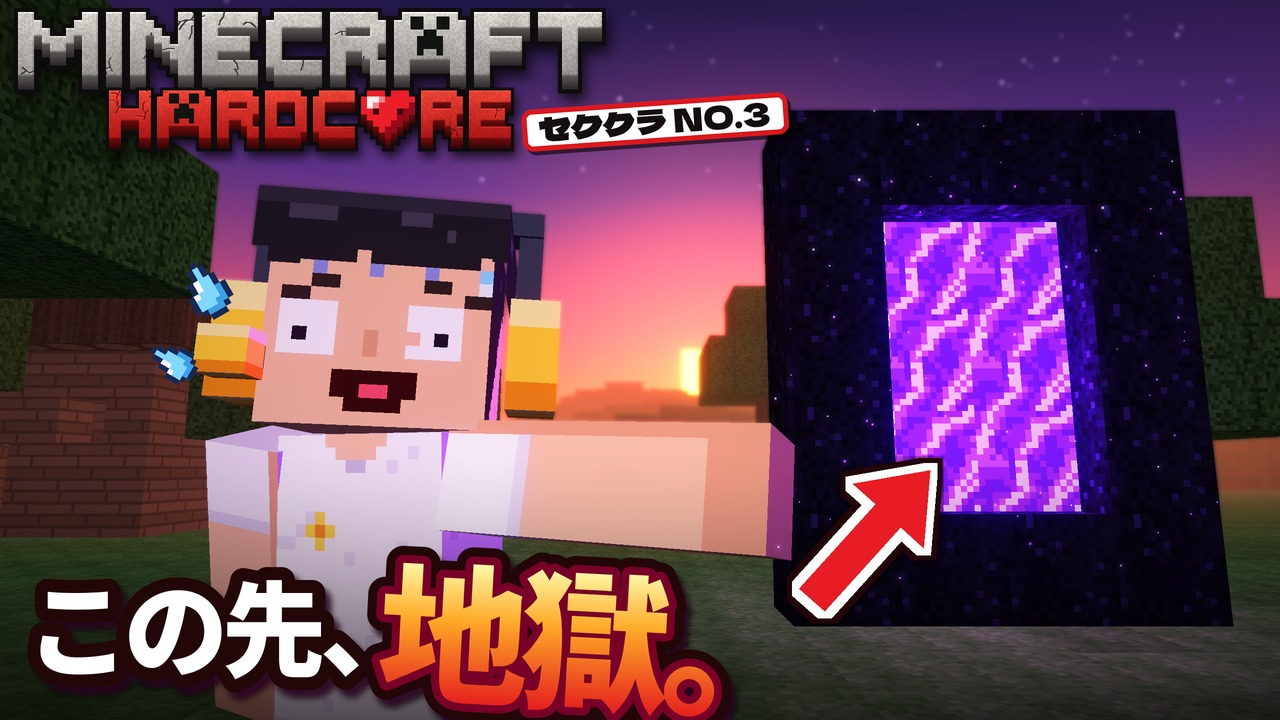
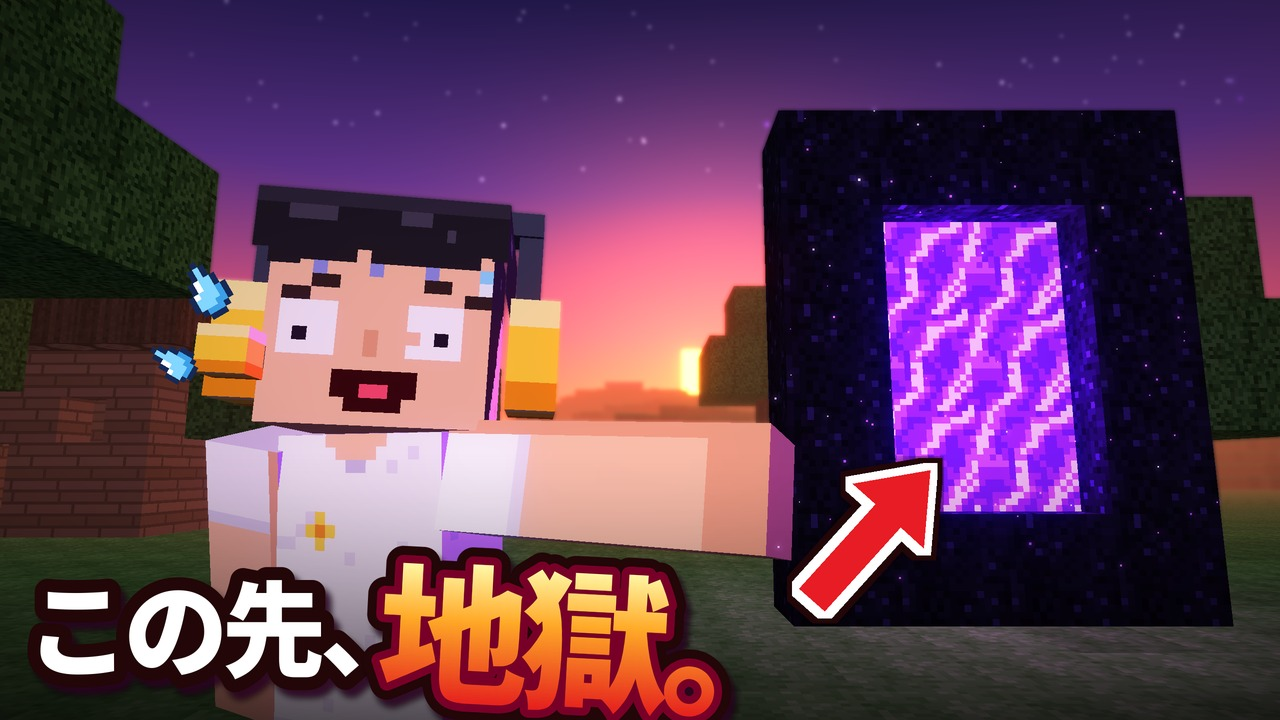
NO.3 のサムネから左上の英字タイトルと「セククラ NO.3」を外す
- 文字は「この先、地獄。」だけにして、顔とネザーゲートを目立たせる
- 英字ロゴの部品（logo_title）は、また使えるように lib/overlay.py に残す

Claude-Session: https://claude.ai/code/session_01ARLGywnTjgvutUHsht7TWK

Changed region(s): [[0.0, 0.0, 0.625, 0.2444]]

diff --git a/sekunuyu-thumbnail/episodes/ep03_portal.py b/sekunuyu-thumbnail/episodes/ep03_portal.py
@@ -187,16 +187,13 @@ def portal_particles(img, cam: Camera, ss: int, seed=11):
 # ---------------------------------------------------------------- 文字入れ
 
 TEXT = {
-    "title1": "MINECRAFT",
-    "title2": "HARDCORE",
-    "badge": "セククラ NO.3",
     "hook1": "この先、",
     "hook2": "地獄。",
 }
 
 
 def compose(art: Image.Image, S: int) -> Image.Image:
-    """クリックされやすさ重視：左上に英字タイトル、フック（この先、地獄。）を大きく。"""
+    """クリックされやすさ重視：文字はフック（この先、地獄。）だけにして大きく。"""
     c = art.convert("RGBA")
     dark = ov.DARK
     # 下の方を少し暗くして、大きい文字を読みやすく
@@ -205,15 +202,6 @@ def compose(art: Image.Image, S: int) -> Image.Image:
     band = np.zeros((h, c.width, 4), np.uint8)
     band[..., 3] = grad.astype(np.uint8)[:, None]
     c.alpha_composite(Image.fromarray(band, "RGBA"))
-    # 左上：ひびの入った石の英字タイトル（A にクリーパーの顔、HARDCORE の O はハート）＋シリーズ名と番号
-    w1, _ = ov.logo_size(TEXT["title1"], 8 * S)
-    w2, _ = ov.logo_size(TEXT["title2"], 6 * S, heart_for="O")
-    b1 = ov.logo_title(c, (14 * S, 8 * S), TEXT["title1"], 8 * S, seed=2)
-    b2 = ov.logo_title(c, (b1[0] + (w1 - w2) // 2, b1[3] - 6 * S), TEXT["title2"], 6 * S,
-                       front=((246, 70, 56), (178, 22, 22)), side=(112, 12, 14), crack=(98, 12, 12),
-                       heart_for="O", seed=5)
-    ov.badge(c, (b2[2] + 6 * S, b2[1] + 3 * S), TEXT["badge"], ov.font(fonts.DELA, 32 * S), pad=(12 * S, 3 * S),
-             border=5 * S, radius=10 * S, rotate=4)
     # フック（大きく）
     hb1 = ov.fx_text(c, (26 * S, 548 * S), TEXT["hook1"], ov.font(fonts.BLACK, 104 * S), (255, 255, 255, 255),
                      strokes=[(13 * S, dark)], shadow=(6 * S, 8 * S, (40, 0, 30, 220), 3 * S), spacing=-6 * S)
